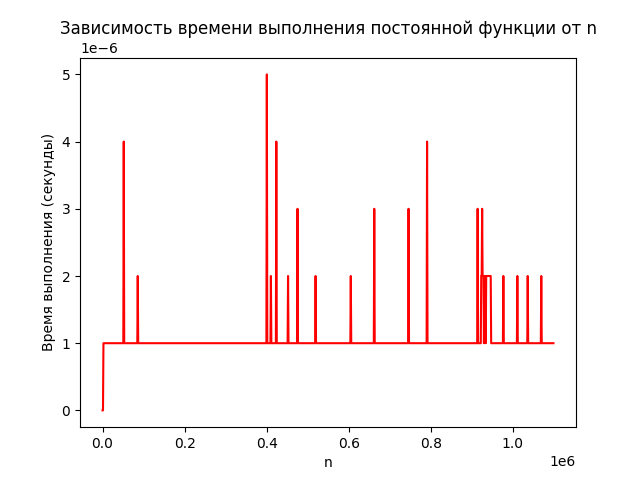
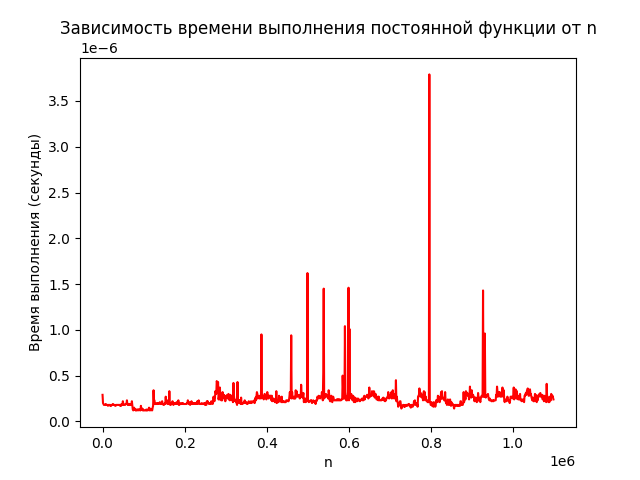
const_func

diff --git a/labs/lab01/lab01_09/const_func.py b/labs/lab01/lab01_09/const_func.py
@@ -5,13 +5,12 @@ import functools
 import matplotlib.pyplot as plt
 
 
-def timing_decorator(ndigits: int, number: int, setup: str) -> typing.Callable:
+def timing_decorator(ndigits: int, number: int) -> typing.Callable:
     def decorator(func: typing.Callable) -> typing.Callable:
         @functools.wraps(func)
         def wrapper(*args, **kwargs) -> float:
             usage_time = timeit.timeit(
                 lambda: func(*args, **kwargs),
-                setup=setup,
                 number=number,
             )
             return round(usage_time / number, ndigits)
@@ -24,20 +23,18 @@ def timing_decorator(ndigits: int, number: int, setup: str) -> typing.Callable:
 max_n = 1100001
 max_vector = [random.randint(1, 100) for _ in range(max_n)]
 
+ndigits = 8
+number_of_runs = 12
+
 n_values = list(range(1, max_n, 1100))
 constant_times = []
 
+@timing_decorator(ndigits, number_of_runs)
+def constant_function(vector):
+        return 11
+
 for n in n_values:
     print(n)
-    ndigits = 6
-    number_of_runs = 5
-
-
-    @timing_decorator(ndigits, number_of_runs, f"vector = {max_vector[:n]}")
-    def constant_function(vector):
-        return 9
-
-
     constant_time = constant_function(max_vector[:n])
     constant_times.append(constant_time)
 
